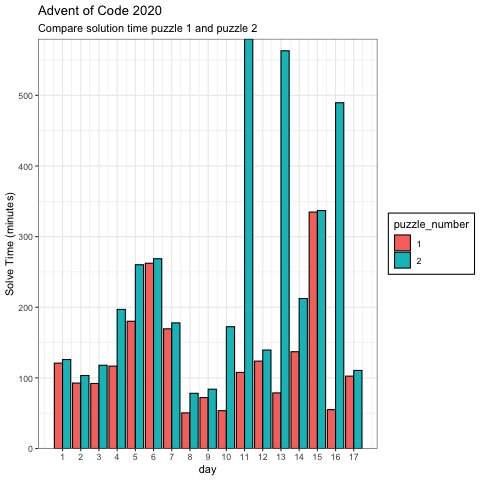
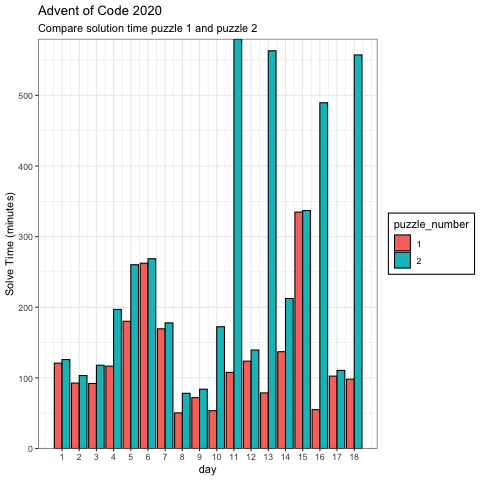
day 18 - pt. 2

Changed region(s): [[0.125, 0.0625, 0.7812, 0.9688]]

diff --git a/day18/day_18.go b/day18/day_18.go
@@ -4,6 +4,7 @@ import (
 	"bufio"
 	"fmt"
 	"os"
+	"regexp"
 	"strconv"
 	"strings"
 )
@@ -69,8 +70,6 @@ func calc(s string, tot int) int {
 
 		// handle parentheses
 		if ss == "(" {
-			// spl := strings.Split(s[i+1:], ")")
-			// fmt.Println(spl[0])
 			ns := parSplit(s[i+1:])
 			// Handle stuff inside parentheses
 			tmp := calc(ns, 0)
@@ -85,6 +84,45 @@ func calc(s string, tot int) int {
 
 	}
 	return tot
+}
+
+func advancedCalc(s string) string {
+
+	fields := strings.Fields(strings.Trim(s, "()"))
+	tot, _ := strconv.Atoi(fields[0])
+
+	for i := 1; i < len(fields); i += 2 {
+		switch n, _ := strconv.Atoi(fields[i+1]); fields[i] {
+		case "+":
+			tot += n
+		case "*":
+			tot *= n
+		}
+	}
+
+	return strconv.Itoa(tot)
+}
+
+func noParam(s string) string {
+	rr := regexp.MustCompile(`\d+ \+ \d+`)
+	for rr.MatchString(s) {
+		s = rr.ReplaceAllStringFunc(s, advancedCalc)
+	}
+	s = advancedCalc(s)
+	return s
+}
+
+func calcAdvanced(s string) int {
+
+	re := regexp.MustCompile(`\([^\(\)]+\)`)
+
+	for re.MatchString(s) {
+		s = re.ReplaceAllStringFunc(s, noParam)
+	}
+
+	ret, _ := strconv.Atoi(noParam(s))
+
+	return ret
 }
 
 func homeworkPart1(s *bufio.Scanner) int {
@@ -102,8 +140,23 @@ func homeworkPart1(s *bufio.Scanner) int {
 	return tot
 }
 
+func homeworkPart2(s *bufio.Scanner) int {
+	tot := 0
+	for s.Scan() {
+		// Prep strings
+		r := strings.Trim(s.Text(), "\n")
+		r = strings.TrimSpace(r)
+		// Do calculation
+		tot += calcAdvanced(r)
+	}
+	if err := s.Err(); err != nil {
+		panic(err)
+	}
+	return tot
+}
+
 func main() {
-	part2 := false
+	part2 := true
 	file, err := os.Open("data_18.txt")
 	if err != nil {
 		panic(err)
@@ -113,9 +166,8 @@ func main() {
 	if !part2 {
 		n := homeworkPart1(scanner)
 		fmt.Println("Day 18-1:", n)
+	} else {
+		n := homeworkPart2(scanner)
+		fmt.Println("Day 18-2:", n)
 	}
-	// else {
-	// 	n := simulateGrid4(scanner)
-	// 	fmt.Println("Day 18-2:", n)
-	// }
 }

diff --git a/day18/day_18_test.go b/day18/day_18_test.go
@@ -54,3 +54,47 @@ func Test_homeworkPart1(t *testing.T) {
 		})
 	}
 }
+
+func Test_homeworkPart2(t *testing.T) {
+	type args struct {
+		s *bufio.Scanner
+	}
+	tests := []struct {
+		name string
+		args args
+		want int
+	}{
+		{
+			name: "Example 1-1",
+			args: args{createScanner("1 + 2 * 3 + 4 * 5 + 6")},
+			want: 231,
+		},
+		{
+			name: "Example 1-2",
+			args: args{createScanner("2 * 3 + (4 * 5)")},
+			want: 46,
+		},
+		{
+			name: "Example 1-3",
+			args: args{createScanner("5 + (8 * 3 + 9 + 3 * 4 * 3)")},
+			want: 1445,
+		},
+		{
+			name: "Example 1-4",
+			args: args{createScanner("5 * 9 * (7 * 3 * 3 + 9 * 3 + (8 + 6 * 4))")},
+			want: 669060,
+		},
+		{
+			name: "Example 1-4",
+			args: args{createScanner("((2 + 4 * 9) * (6 + 9 * 8 + 6) + 6) + 2 + 4 * 2")},
+			want: 23340,
+		},
+	}
+	for _, tt := range tests {
+		t.Run(tt.name, func(t *testing.T) {
+			if got := homeworkPart2(tt.args.s); got != tt.want {
+				t.Errorf("homeworkPart2() = %v, want %v", got, tt.want)
+			}
+		})
+	}
+}
